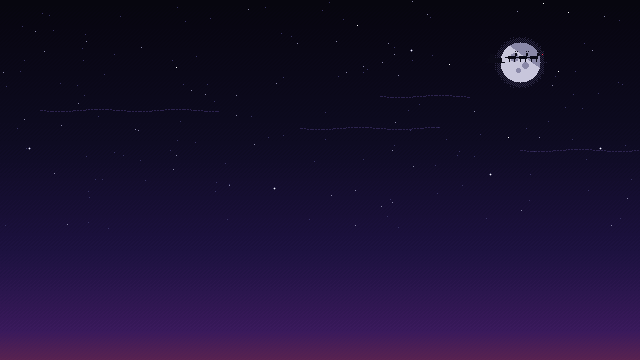
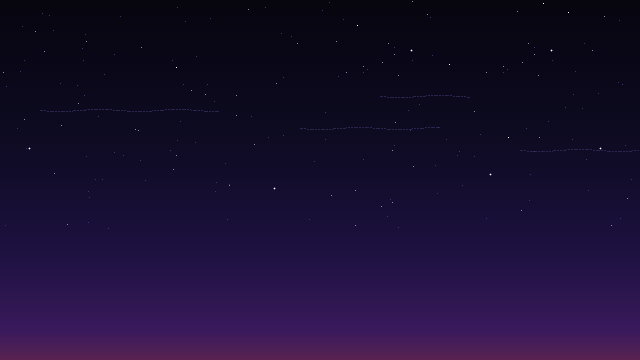
Luna disco, intro más lenta y "sonido" en vez de "parlantes"
- La luna del fondo ahora es una bola de disco 8-bit que gira y brilla
- La intro de la historia dura más por escena para poder leerla
- Robo-Grinch se robó el sonido de la Navidance (antes decía parlantes)

Claude-Session: https://claude.ai/code/session_013DZpyPz2MAVLmmUD21iEpP

Changed region(s): [[0.7812, 0.0917, 0.875, 0.2444]]

diff --git a/salva-la-navidance/js/stage.js b/salva-la-navidance/js/stage.js
@@ -55,6 +55,61 @@
     // Durante la partida la ciudad del fondo va más oscura: así el piso, las plataformas y los personajes
     // resaltan. Las luces de boliche, láseres y guirnaldas se dibujan DESPUÉS, así que quedan igual de brillantes.
     if (G.state === 'play' && NV.CFG.BG_DIM > 0) { ctx.fillStyle = 'rgba(4,3,12,' + NV.CFG.BG_DIM + ')'; ctx.fillRect(0, 0, W, 360); }
+    S.drawDisco(ctx, G); // la luna disco, en el lugar de la luna del cielo; va después del oscurecido para que brille
+  };
+
+  // ===================== LUNA DISCO (reemplaza a la luna) =====================
+  // Esfera de espejitos en 8-bit en el lugar exacto de la luna del cielo: gira, cada faceta refleja la luz según
+  // hacia dónde mira, algunas destellan al ritmo y tiene el halo suave que tenía la luna.
+  const DR = 20, DS = DR * 2 + 2;
+  let discoCv = null, discoCtx = null;
+  function discoSphere(G) {
+    if (!discoCv) { discoCv = document.createElement('canvas'); discoCv.width = discoCv.height = DS; discoCtx = discoCv.getContext('2d'); }
+    const g = discoCtx, t = G.frame / 60, rot = t * 0.9, beat = G.beat, bp = G.beatPos || 0;
+    g.clearRect(0, 0, DS, DS);
+    const NL = 14, NT = 9;                                  // facetas: 14 a lo ancho (por media vuelta) y 9 de alto
+    const L = [-0.55, -0.6, 0.58];                          // luz desde arriba a la izquierda
+    for (let py = 0; py < DS; py++) for (let px = 0; px < DS; px++) {
+      const nx = (px + 0.5 - DS / 2) / DR, ny = (py + 0.5 - DS / 2) / DR, d2 = nx * nx + ny * ny;
+      if (d2 > 1) continue;
+      const nz = Math.sqrt(1 - d2);
+      const lon = Math.atan2(nx, nz) + rot, lat = Math.asin(ny);
+      const fu = ((lon / Math.PI) * NL % NL + NL) % NL, fv = (lat / Math.PI + 0.5) * NT;
+      const iu = Math.floor(fu), iv = Math.floor(fv), du = fu - iu, dv = fv - iv;
+      let c;
+      if (du < 0.14 || dv < 0.14) c = '#1c1d2c';                       // junta entre espejitos
+      else {
+        const lit = Math.max(0, -(nx * L[0] + ny * L[1]) + nz * L[2]);
+        const h = ((iu * 73 + iv * 151) % 97) / 97;
+        const flash = (h * 7.3 + bp * 0.5) % 1;
+        if (flash < 0.07 && lit > 0.15) c = COLS[(iu + iv + beat) % COLS.length];   // destello de color
+        else if (flash > 0.93 && lit > 0.35) c = '#ffffff';
+        else { const k = Math.min(1, 0.22 + lit * 0.9 + (h - 0.5) * 0.25); const v = Math.round(60 + k * 175); c = 'rgb(' + (v - 8) + ',' + (v - 4) + ',' + Math.min(255, v + 18) + ')'; }
+      }
+      g.fillStyle = c; g.fillRect(px, py, 1, 1);
+    }
+    // borde oscuro de 1 píxel (lectura 8-bit)
+    g.globalCompositeOperation = 'destination-over'; g.fillStyle = '#0b0a12'; g.beginPath(); g.arc(DS / 2, DS / 2, DR + 1, 0, Math.PI * 2); g.fill(); g.globalCompositeOperation = 'source-over';
+    return discoCv;
+  }
+  S.drawDisco = function (ctx, G) {
+    const W = NV.X.W, X = NV.X, t = G.frame, bass = G.bass || 0;
+    for (let ox = 0; ox < W; ox += 640) {          // el cielo se repite cada 640 px, la luna iba en (520, 62)
+      const cx = ox + 520, cy = 54; if (cx - 40 > W) continue;
+      // halo suave, como el de la luna
+      ctx.save(); ctx.globalCompositeOperation = 'lighter';
+      const halo = ctx.createRadialGradient(cx, cy, DR * 0.8, cx, cy, DR * 2.1);
+      halo.addColorStop(0, 'rgba(190,205,255,' + (0.16 + bass * 0.06) + ')'); halo.addColorStop(1, 'rgba(0,0,0,0)');
+      ctx.fillStyle = halo; ctx.fillRect(cx - 44, cy - 44, 88, 88); ctx.restore();
+      ctx.drawImage(discoSphere(G), cx - DS / 2, cy - DS / 2);
+      // destellos: crucecitas 8-bit que titilan sobre la bola
+      for (let i = 0; i < 3; i++) {
+        const ph = (t + i * 29) % 58; if (ph > 12) continue;
+        const k = Math.round(ph < 6 ? ph / 2 : (12 - ph) / 2), a = i * 2.3 + Math.floor((t + i * 29) / 58) * 1.9;
+        const sx = Math.round(cx + Math.cos(a) * DR * 0.55), sy = Math.round(cy + Math.sin(a) * DR * 0.5);
+        X.rect(sx - k, sy, k * 2 + 1, 1, '#ffffff'); X.rect(sx, sy - k, 1, k * 2 + 1, '#ffffff');
+      }
+    }
   };
 
   // PLATAFORMAS CON EL NEÓN DEL DJ: la nieve de arriba queda blanca; la base toma el color del personaje

diff --git a/salva-la-navidance/js/game.js b/salva-la-navidance/js/game.js
@@ -131,7 +131,7 @@
         const n = 4 - (G.beat - G.countBeat);
         if (G.beatTick) { if (n > 0) { G.sfx('beep'); G.say(String(n), { scale: 6, life: 26, color: p.hero.light }); } else { G.sfx('go'); G.running = true; G.t0 = performance.now();
           // el servidor anota la largada: el tiempo final tiene que coincidir con su reloj
-          const pid = G.profile.id; G.tokenP.then((t) => NV.DB.go(t, pid)); G.say('¡YA!', { scale: 6, life: 40, color: '#f5c542', sub: 'LLEGÁ HASTA ROBO-GRINCH Y RECUPERÁ LOS PARLANTES', subColor: '#ffffff' }); } }
+          const pid = G.profile.id; G.tokenP.then((t) => NV.DB.go(t, pid)); G.say('¡YA!', { scale: 6, life: 40, color: '#f5c542', sub: 'LLEGÁ HASTA ROBO-GRINCH Y RECUPERÁ EL SONIDO', subColor: '#ffffff' }); } }
       }
     }
     if (G.running) {
@@ -153,7 +153,7 @@
       }
       if (G.boss && G.boss.landed && G.introLock) {
         G.introLock = false; G.introT = 0; G.vsT = 0;
-        G.say('¡' + NV.BOSS_NAME + '!', { scale: 3, life: 120, color: '#ff2e4a', sub: 'SE ROBÓ LOS PARLANTES · MIRÁ LAS LÍNEAS PUNTEADAS: AVISA ANTES DE CADA ATAQUE' });
+        G.say('¡' + NV.BOSS_NAME + '!', { scale: 3, life: 120, color: '#ff2e4a', sub: 'SE ROBÓ EL SONIDO · MIRÁ LAS LÍNEAS PUNTEADAS: AVISA ANTES DE CADA ATAQUE' });
         G.bossWake = G.beat + 4 - (G.beat & 3) + 4; // empieza a atacar en el compás siguiente
       }
     }

diff --git a/salva-la-navidance/js/screens.js b/salva-la-navidance/js/screens.js
@@ -120,10 +120,10 @@
   const PAGES = [
     { who: 'NOCHEBUENA · 9 DE JULIO', color: '#4de2ff', scene: 'party', lines: ['LA NAVIDANCE DE BRUTAL. ESTÁ A FULL.', 'TODA LA CIUDAD BAILA BAJO LA NIEVE...'] },
     { who: '???', color: '#8ea2c4', scene: 'dark', lines: ['¡SE CORTÓ LA LUZ!', 'ALGO ENORME CAYÓ SOBRE EL ESCENARIO.'] },
-    { who: 'ROBO-GRINCH', color: '#ff2e4a', scene: 'boss', lines: ['"ODIO LA NAVIDAD. Y ODIO SU MÚSICA."', 'SE ROBÓ LOS PARLANTES DE LA FIESTA.'] },
-    { who: 'BRUTAL.', color: '#f5c542', scene: 'djs', lines: ['¡SOLO UN DJ PUEDE SALVAR LA NAVIDANCE!', 'ELEGÍ EL TUYO Y RECUPERÁ LOS PARLANTES.'] },
+    { who: 'ROBO-GRINCH', color: '#ff2e4a', scene: 'boss', lines: ['"ODIO LA NAVIDAD. Y ODIO SU MÚSICA."', 'SE ROBÓ EL SONIDO DE LA FIESTA.'] },
+    { who: 'BRUTAL.', color: '#f5c542', scene: 'djs', lines: ['¡SOLO UN DJ PUEDE SALVAR LA NAVIDANCE!', 'ELEGÍ EL TUYO Y RECUPERÁ EL SONIDO.'] },
   ];
-  const TYPE = 1.8, HOLD = 430; // cuadros por letra y espera antes de avanzar sola (~7 s con el texto completo, para leer tranquilo)
+  const TYPE = 2.6, HOLD = 600; // cuadros por letra y espera antes de avanzar sola (~10 s con el texto completo, para que todos lleguen a leer)
   S.story = {
     enter(G) { G.sp = 0; G.st = 0; G.sfade = 0; NV.Audio.menuSong(); },
     draw(ctx, G) {

diff --git a/salva-la-navidance/js/core.js b/salva-la-navidance/js/core.js
@@ -3,7 +3,7 @@
 //  Todos los números del juego están acá para ajustarlos sin tocar la lógica.
 // =====================================================================
 window.NV = window.NV || {};
-NV.VERSION = 'robogrinch-10'; // cambiarlo en cada actualización del arte o la música (rompe la caché del navegador)
+NV.VERSION = 'robogrinch-14'; // cambiarlo en cada actualización del arte o la música (rompe la caché del navegador)
 
 NV.CFG = {
   // ---------- Pantalla ----------

diff --git a/salva-la-navidance/tools/arte.py b/salva-la-navidance/tools/arte.py
@@ -71,8 +71,8 @@ def sky():
         c = P['white'] if b > 0.92 else P['stone2'] if b > 0.6 else P['sil4']
         px(im, x, y, c)
         if b > 0.97: px(im, x - 1, y, P['stone1']); px(im, x + 1, y, P['stone1']); px(im, x, y - 1, P['stone1']); px(im, x, y + 1, P['stone1'])
-    # luna llena con cráteres y halo
-    mx, my, r = 520, 62, 20
+    # (la luna se reemplazó por la bola de disco que dibuja el juego en js/stage.js: S.drawDisco)
+    mx, my, r = -999, -999, 0
     for y in range(-r - 8, r + 9):
         for x in range(-r - 8, r + 9):
             dd = math.hypot(x, y)
@@ -81,7 +81,7 @@ def sky():
                 im.putpixel((mx + x, my + y), c)
             elif dd <= r + 8 and (x + y) % 2 == 0 and dd <= r + 4 + (x % 3):
                 im.putpixel((mx + x, my + y), lerp(P['night1'], P['stone1'], 0.35))
-    for cx, cy, cr in ((-6, -5, 4), (5, 3, 3), (-2, 8, 2), (8, -7, 2)):
+    for cx, cy, cr in ():
         d.ellipse([mx + cx - cr, my + cy - cr, mx + cx + cr, my + cy + cr], fill=P['stone2'])
     # nubes finas
     for cy, cx0, ln in ((110, 40, 180), (128, 300, 140), (96, 380, 90), (150, 520, 120)):
@@ -402,7 +402,7 @@ def trineo(im, d, x, y):
 
 def navidad_fondo():
     sky_p = os.path.join(BG, 'sky.png'); im = Image.open(sky_p).convert('RGBA'); d = ImageDraw.Draw(im)
-    trineo(im, d, 488, 54); im.save(sky_p)
+    im.save(sky_p)  # (el trineo cruzaba la luna: ahora hay una bola de disco)
     for name in ('far', 'near'): nevar(os.path.join(BG, name + '.png'), 3 if name != 'far' else 2)
     # árbol gigante en la plaza (capa media) + luces en los techos
     mp = os.path.join(BG, 'mid.png'); im = Image.open(mp).convert('RGBA'); d = ImageDraw.Draw(im)

diff --git a/salva-la-navidance/README.md b/salva-la-navidance/README.md
@@ -38,7 +38,7 @@ Los datos se guardan en `data/players.json` (un jugador por Instagram) y `data/s
 ## 2. Reglas del juego
 
 - **Al abrir el juego:** logo de BRUTAL. en 8-bit → créditos en pantalla negra ("DESIGNED & PRODUCED BY" / **DKZ & AM**) → historia → menú. Cada pantalla de presentación dura 10 s (entrada, pantalla completa y fundido a negro); con los créditos ya empieza la canción del menú. Tocar o apretar una tecla adelanta.
-- **La historia:** es Nochebuena en **9 de Julio**, nieva sobre la ciudad y **ROBO-GRINCH** (mitad Grinch, mitad robot, con saco de Papá Noel) cortó la luz y se robó los parlantes de la Navidance. Tu DJ tiene que cruzar la ciudad y vencerlo. La intro son 4 escenas con cuadro de diálogo: tocar/tecla completa el texto, otra vez pasa a la siguiente; **SALTEAR** (o Esc) va directo al menú.
+- **La historia:** es Nochebuena en **9 de Julio**, nieva sobre la ciudad y **ROBO-GRINCH** (mitad Grinch, mitad robot, con saco de Papá Noel) cortó la luz y se robó el sonido de la Navidance. Tu DJ tiene que cruzar la ciudad y vencerlo. La intro son 4 escenas con cuadro de diálogo: tocar/tecla completa el texto, otra vez pasa a la siguiente; **SALTEAR** (o Esc) va directo al menú.
 - **Un solo nivel** con 3 zonas: **Ruta 5 nevada**, **Centro navideño** y **Autódromo**, con **ROBO-GRINCH** como jefe final.
 - **Enemigos:** Muñecos Patovica, Regalos Poseídos, Esferas Malditas y Duendes Traviesos (38 en todo el nivel). Están **siempre en el mismo lugar**: es una carrera, se puede aprender el recorrido.
 - **Combo y FIEBRE:** encadená 5 enemigos sin cortar el combo (2,5 s entre uno y otro) y entrás en **FIEBRE BRUTAL**: corrés más rápido mientras sigas el combo.
@@ -71,6 +71,7 @@ Los datos se guardan en `data/players.json` (un jugador por Instagram) y `data/s
 - En **FIEBRE** el arma se enfría y el dash se recarga más rápido.
 - **La fiesta sube a medida que avanzás:** láseres de escenario, luces más intensas, estroboscópico y público eufórico.
 - **Plataformas con tu color:** la base de las plataformas (no la nieve de arriba) toma el neón del DJ elegido: rojo, azul o verde.
+- **Luna disco:** en el cielo del fondo, en el mismo lugar donde estaba la luna, hay una bola de espejitos 8-bit que gira y brilla (`S.drawDisco` en `js/stage.js`).
 - **La ciudad del fondo va más oscura** durante la partida para que el piso, las plataformas y los personajes resalten (`BG_DIM` en `js/core.js`; 0 = como antes). Las luces audio-rítmicas no se tocan.
 
 ### Los 3 DJs
